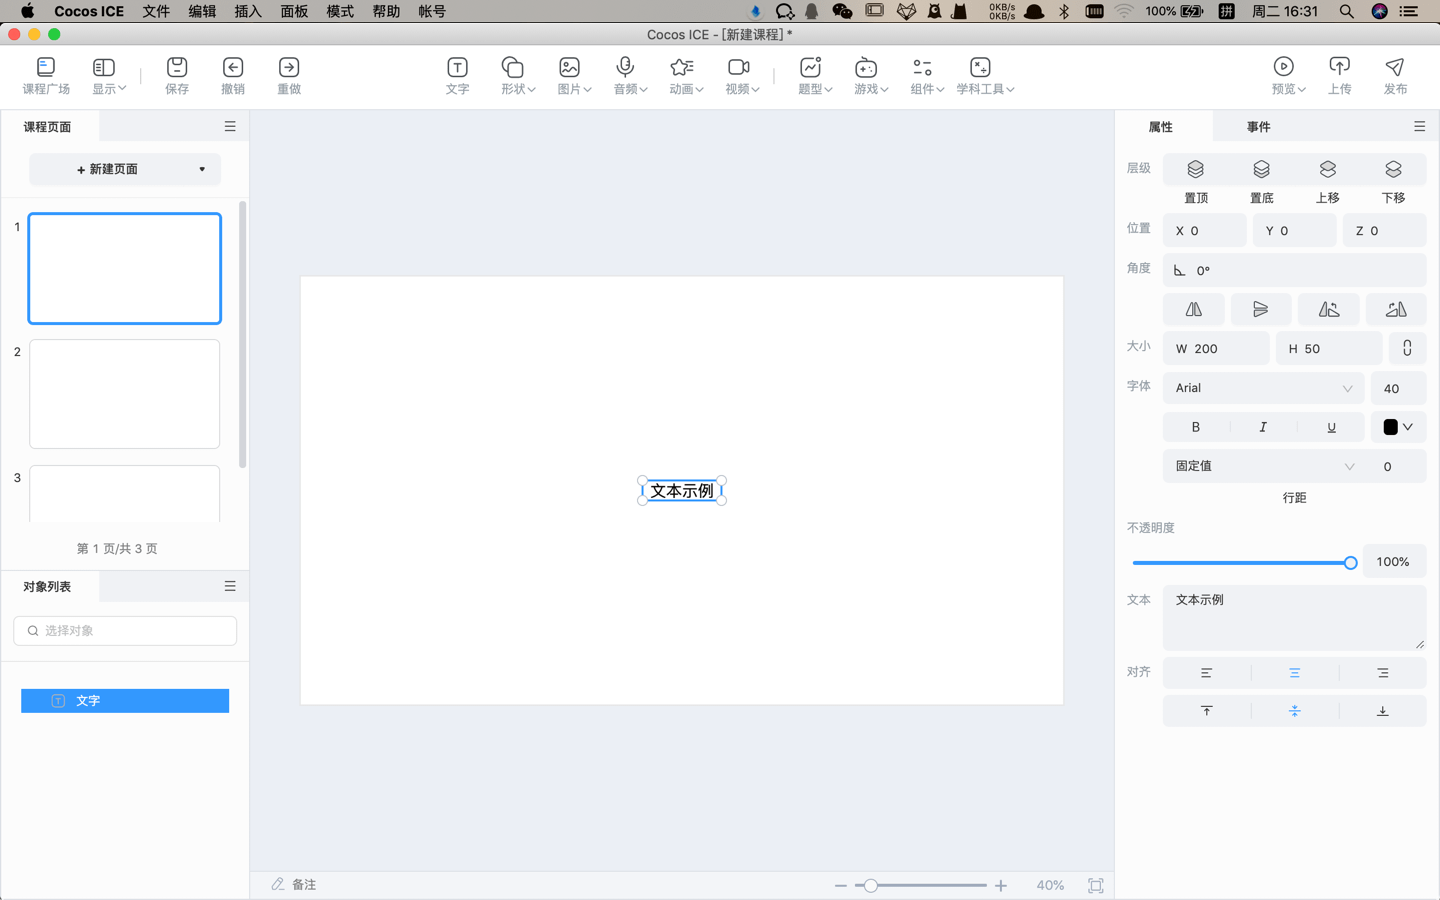
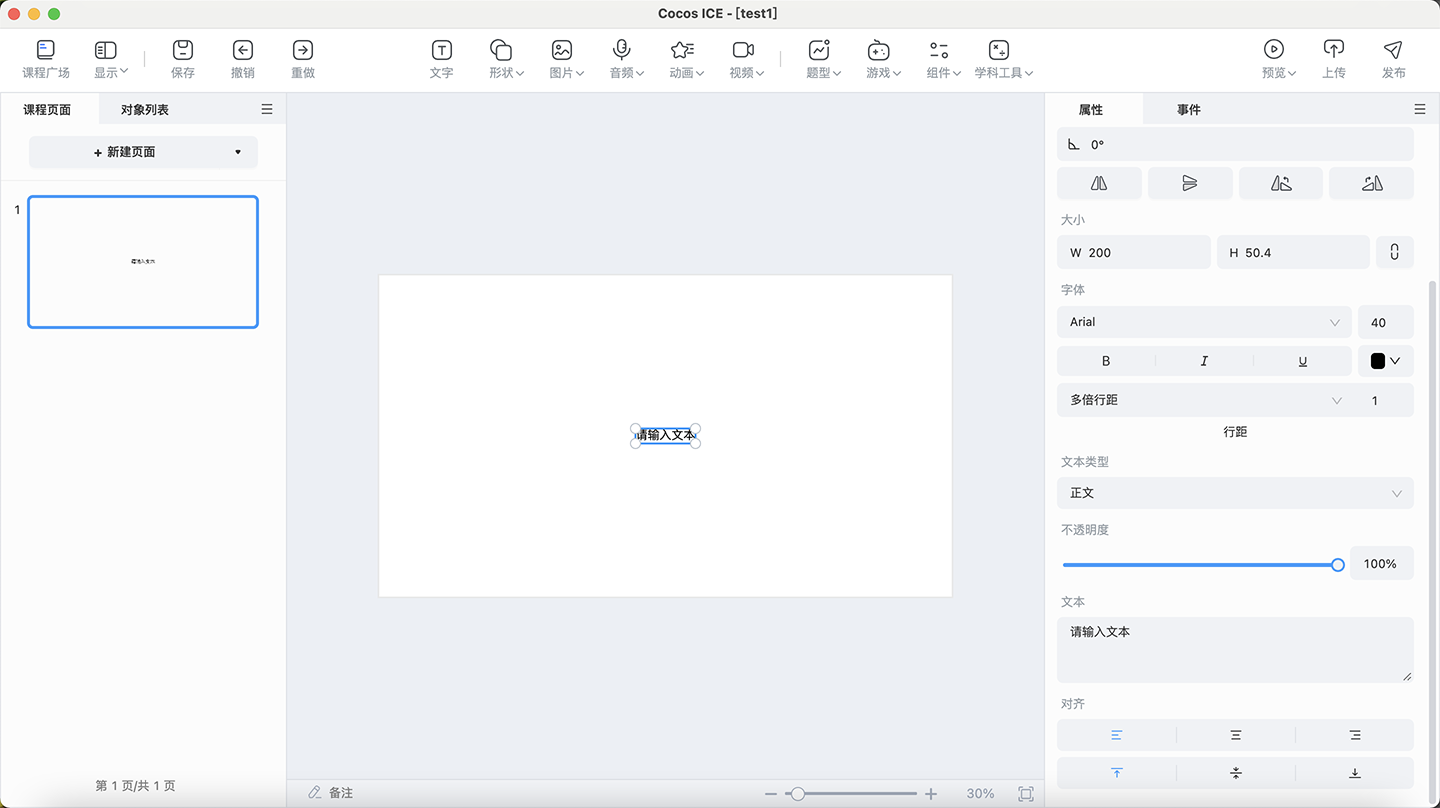
事件新增跳转视频、触发器新增拖拽、素材库新增上传文件、文本属性优化、部分图片替换 (#22)
* 事件新增“跳转视频”

* Apply suggestions from code review

* 素材上传功能

* Apply suggestions from code review

* Apply suggestions from code review

diff --git a/zh/event/index.md b/zh/event/index.md
@@ -8,11 +8,11 @@
 
     ![添加互动事件](img/add_event.png)
 
-2. **选择触发器**：触发器表示触发该事件用户需要进行的操作，可以选择点击、滑动等操作。
+2. **选择触发器**：触发器表示触发该事件用户需要进行的操作，可以选择点击、滑动、拖拽等操作。
 
     ![事件触发器](img/Event_trigger.png)
 
-3. **设置触发事件**：用户选择完触发器后，会默认为事件添加 1 个动作，需要对动作的 **触发事件** 进行设置。支持基本的 **播放动效**、**页面调整**，企业也可以 [**自定义事件**](../developer/develop-event/index.md)。
+3. **设置触发事件**：用户选择完触发器后，会默认为事件添加 1 个动作，需要对动作的 **触发事件** 进行设置。支持基本的 **播放动效**、**页面跳转**、**视频跳转**，企业也可以 [**自定义事件**](../developer/develop-event/index.md)。
 
     ![触发事件](img/Event_triggerevent.png)
 
@@ -29,6 +29,12 @@
         - **持续时间**：表示该动效的开始到结束的时间段。
 
         - **重复次数**：表示该动效执行的次数，例如设置为 **2**，该动效便会执行 2 次。
+
+    - **跳转视频**：用户可以自由配置跳转到课程内的任一视频和要跳转的时间点。
+
+        ![跳转视频](img/Event_videojump.png)
+
+        用户设置完需要跳转的视频后，可以对视频播放时间进行设置，可以选择 **从头播放**、 **从指定时间播放**。
 
 4. **添加多个动作**：设置完动作 1 后，还可以为该事件添加动作 2。为动作 2 设置 **开始** 属性。
 

diff --git a/zh/resource/index.md b/zh/resource/index.md
@@ -2,14 +2,18 @@
 
 点击工具栏中的素材库，可快速唤出 **素材库** 面板，面板中包括 **图片**、**音频**、**视频**、**动画** 4 种类型，可根据需要选择素材类型，支持预览素材。选中素材后，点击下方的 **+ 插入** 按钮或直接拖拽素材到 **场景** ，即可将其添加到 **场景** 中。
 
+素材库支持 **搜索素材**，能在当前类目下对素材进行模糊搜索。
+
 ![素材库](../img/video_mode_material.png)
 
 ## 素材来源
 
-Cocos ICE 会提供部分 **CC0** 素材，打开编辑器就能直接使用。公司也可通过 [**配置服务端**](../developer/configure/server/index.md) 接入自己内部的素材库，支持限制内网使用。
+- **内置素材**：Cocos ICE 会提供部分 **CC0** 素材，打开编辑器就能直接使用。
+
+- **上传素材**：Cocos ICE 也提供上传素材的入口，用户可通过点击 **上传文件**，将本地文件上传至素材库内，进行使用。目前支持上传 **图片**、 **音频**、 **视频**、 **动画** 文件。
+
+    ![素材上传](../img/resource_upload.png)
+
+- **接入素材库**：公司能通过 [**配置服务端**](../developer/configure/server/index.md) 接入自己内部的素材库，支持限制内网使用。
 
 > **注意**：当前版本在上传课程时会上传课程中使用的本地图片到素材库，后续版本会进行优化，支持定制限制上传权限。
-
-## 搜索素材
-
-支持在当前类目下对素材进行模糊搜索。

diff --git a/zh/tools/object/word/index.md b/zh/tools/object/word/index.md
@@ -1,5 +1,5 @@
 # 文字
 
-选中文字对象，可以在右侧属性面板编辑 **文字内容**、**字体**、**字号**、**行距**、**颜色**、**特殊样式**、**对齐方式** 等。
+选中文字对象，可以在右侧属性面板编辑 **文字内容**、**字体**、**字号**、**行距**、**颜色**、**特殊样式**、**对齐方式**、**文本类型** 等。
 
 ![文字属性](../../../img/Curriculum.png)
